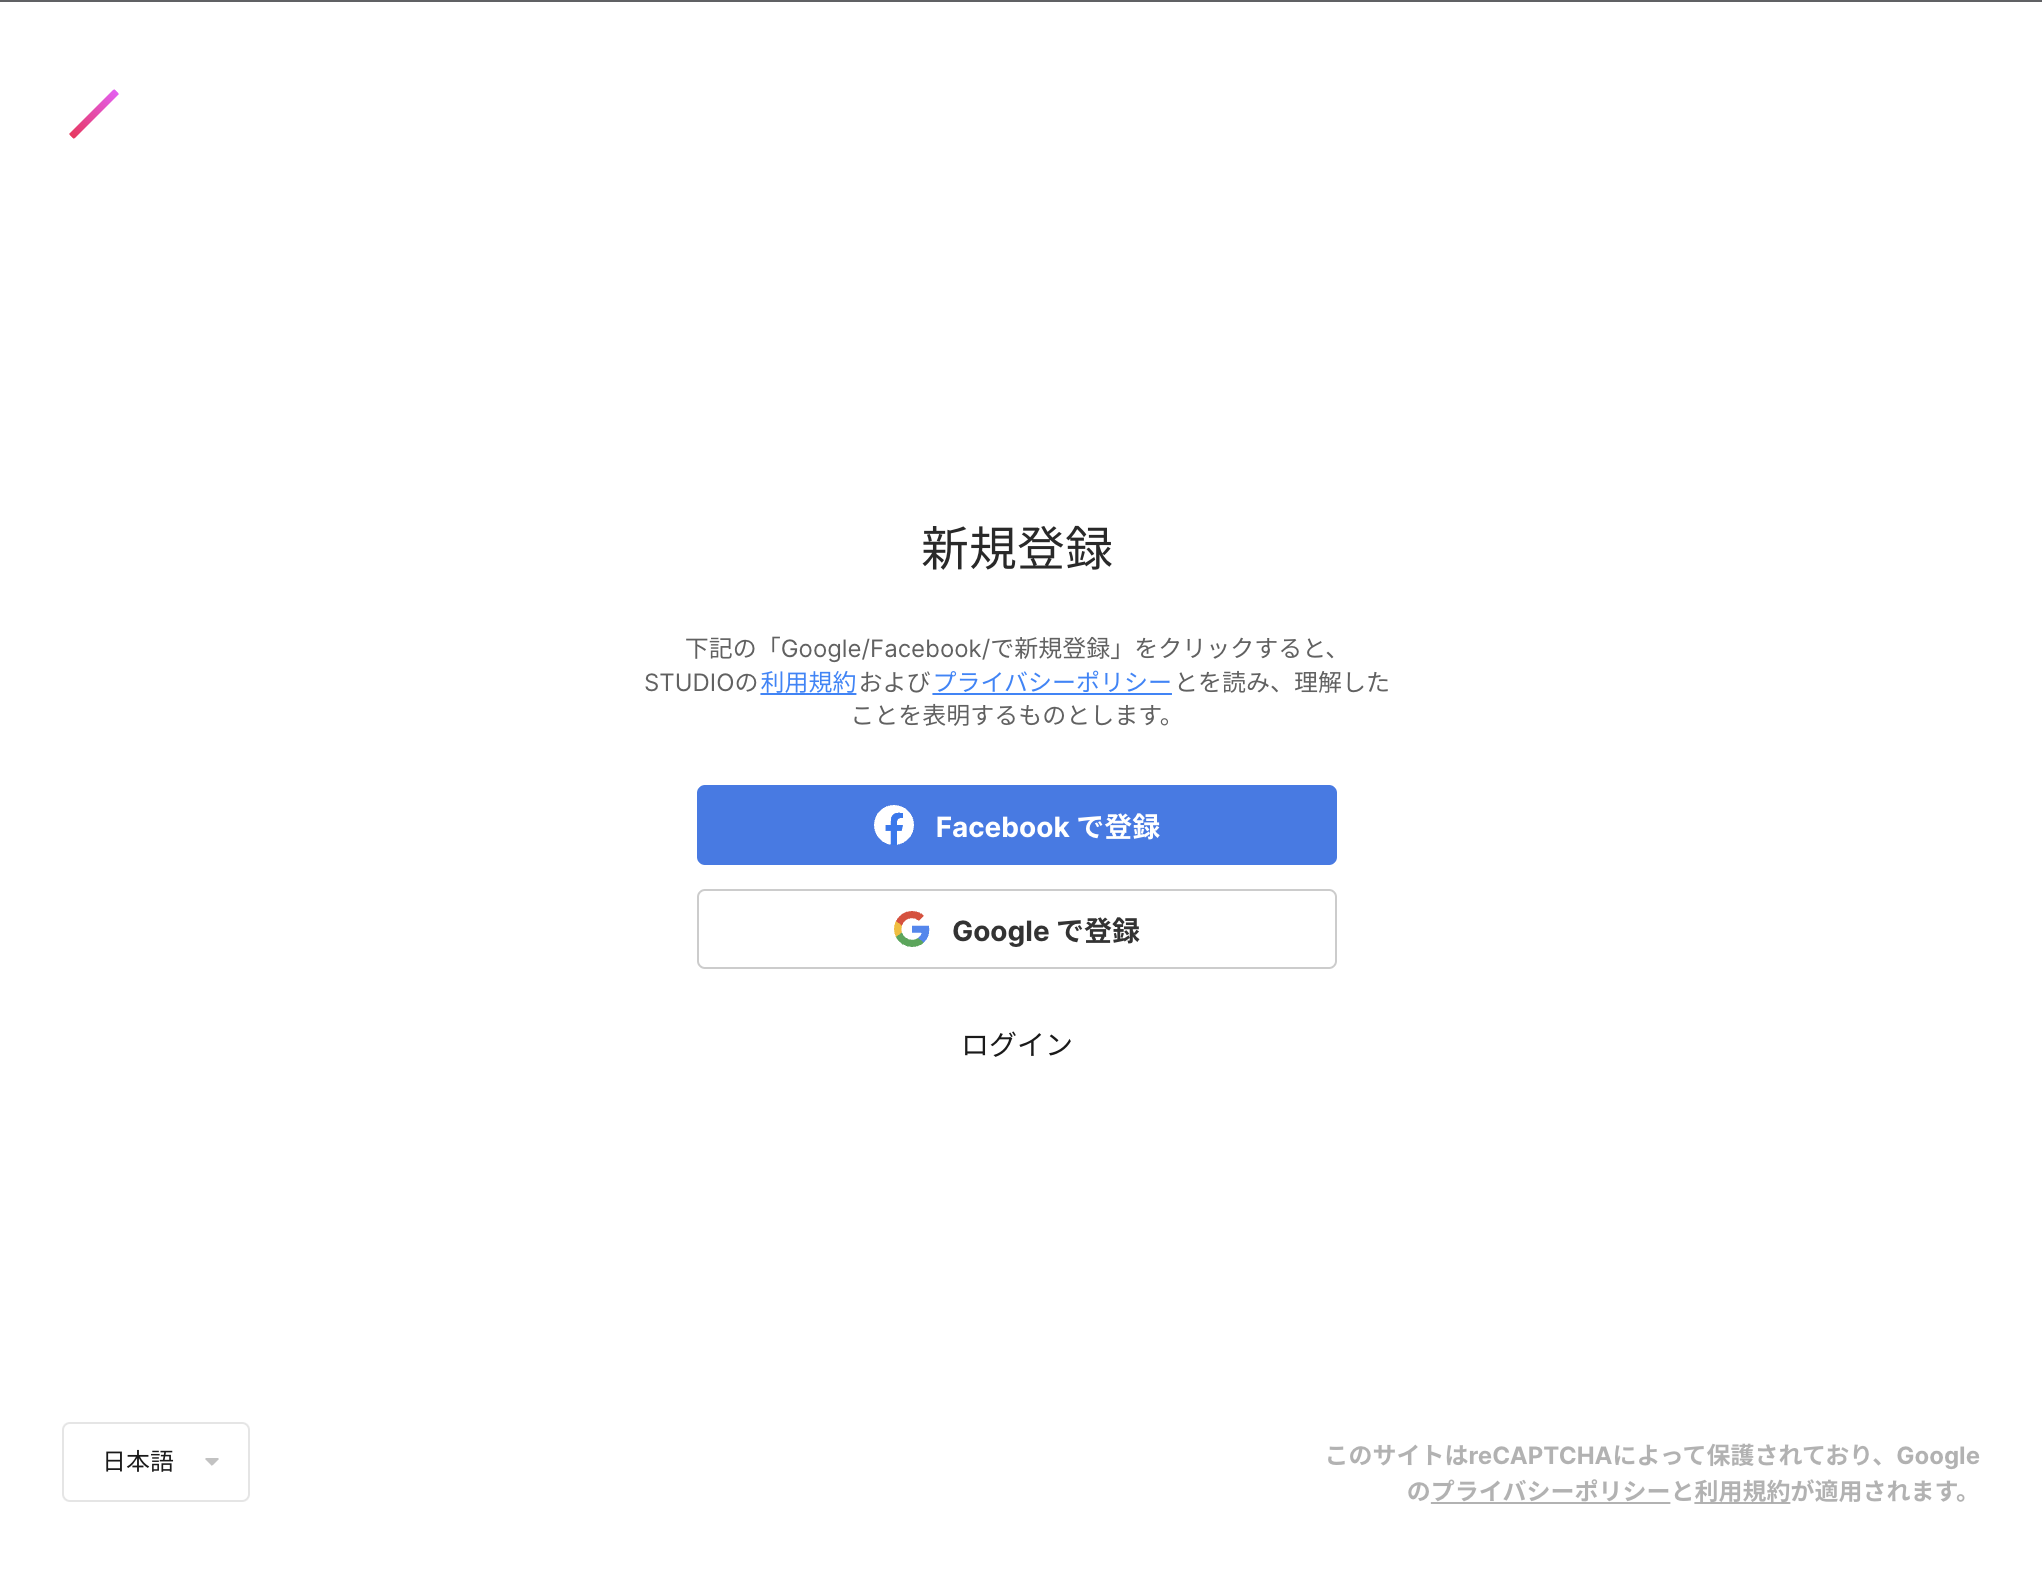
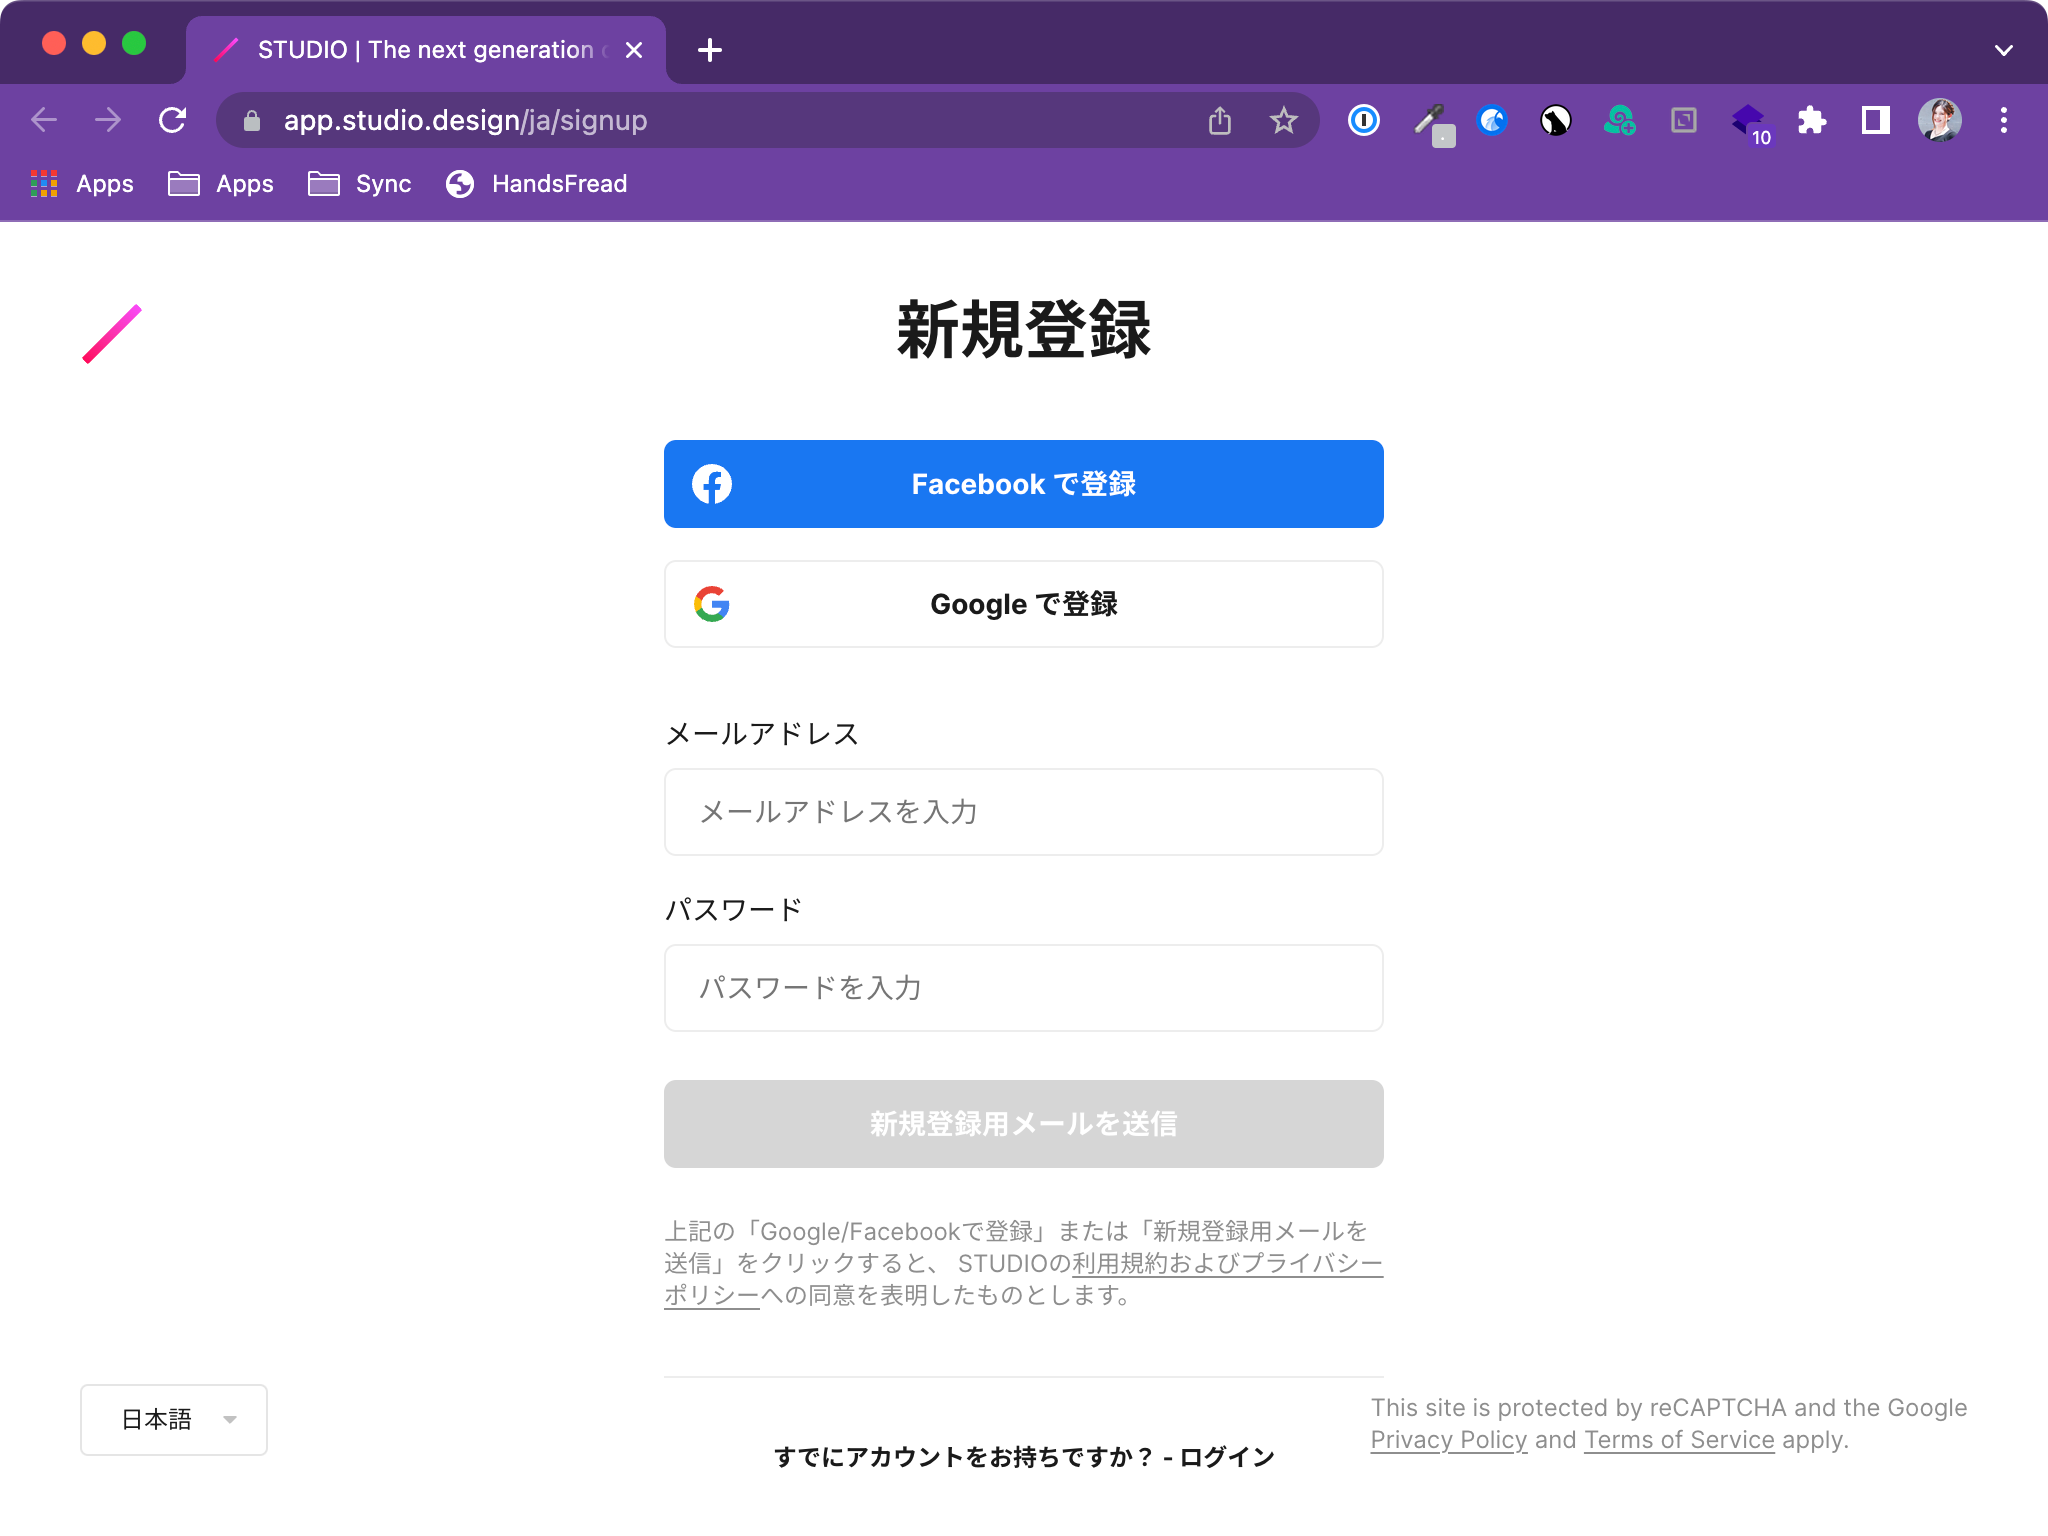
メールアドレスでの新規登録が可能になったため、文章を変更

diff --git a/books/studio-first-step/join.md b/books/studio-first-step/join.md
@@ -2,20 +2,17 @@
 title: "ユーザー登録とチュートリアル"
 ---
 まずはSTUDIOにユーザー登録してみましょう。
-新規ユーザー登録には必ず**Facebookアカウント、もしくはGoogleアカウントが必要**になります。
+新規ユーザー登録には、メールアドレス、Facebookアカウント、もしくはGoogleアカウントのいずれかが必要です。
 
 ## STUDIOから直接アカウント登録する
 
 STUDIOの公式ページの右上の【無料で始める】をクリックします。
 ![スクリーンショット：STUDIOのトップページ](/images/studio-first-step/join-01.png)
 
-新規登録画面から、FacebookアカウントもしくはGoogleアカウントを使ってログインして、新規アカウントを登録します。
+新規登録画面から、メールアドレスで登録するか、FacebookアカウントもしくはGoogleアカウントを使ってログインして、新規アカウントを登録します。
 ![スクリーンショット：STUDIOの新規登録ページ](/images/studio-first-step/join-02.png)
 
 これだけです！かんたんですよね。
-:::message
-以前はメールアドレスとパスワードでのアカウント登録が可能だったため、ログイン画面にはその名残が残っています。セキュリティリスクに対応するために、現在ではFacebookもしくはGoogleアカウントのみでの新規登録に変更になりました。 なお、[STUDIOのセキュリティ対策（チェックシート）](https://help.studio.design/ja/articles/4682161-studio%E3%81%AE%E3%82%BB%E3%82%AD%E3%83%A5%E3%83%AA%E3%83%86%E3%82%A3%E5%AF%BE%E7%AD%96)も公開されています。
-:::
 
 ## アンケートとチュートリアル
 登録が終わると、初回のログイン時のみ、アンケートとチュートリアルが始まります（おそらく）
